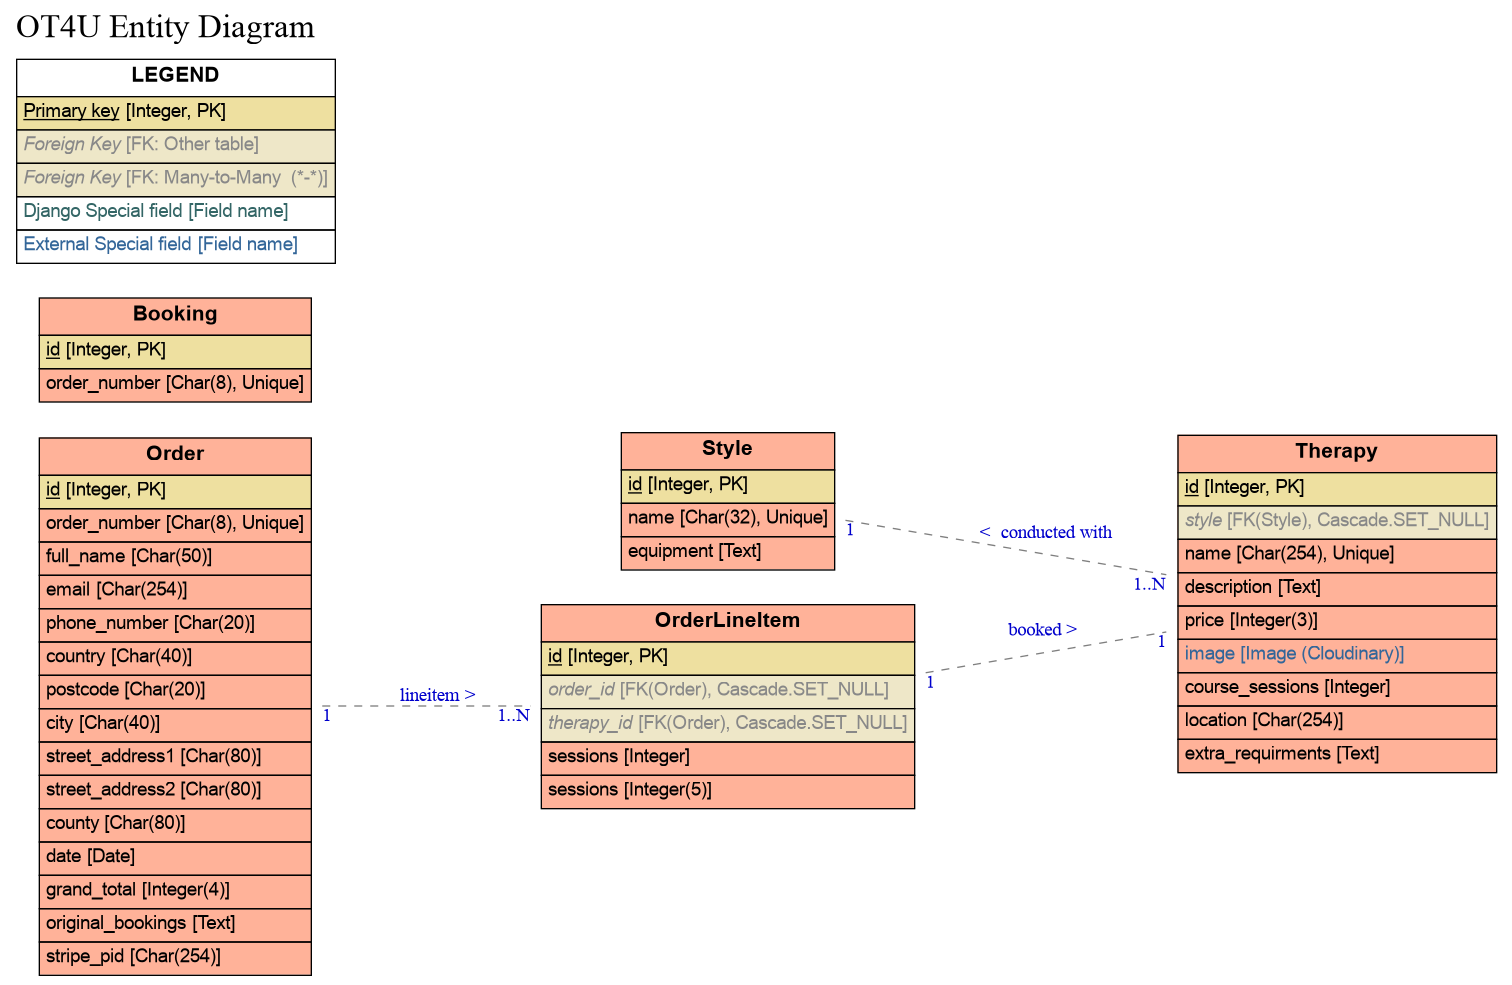
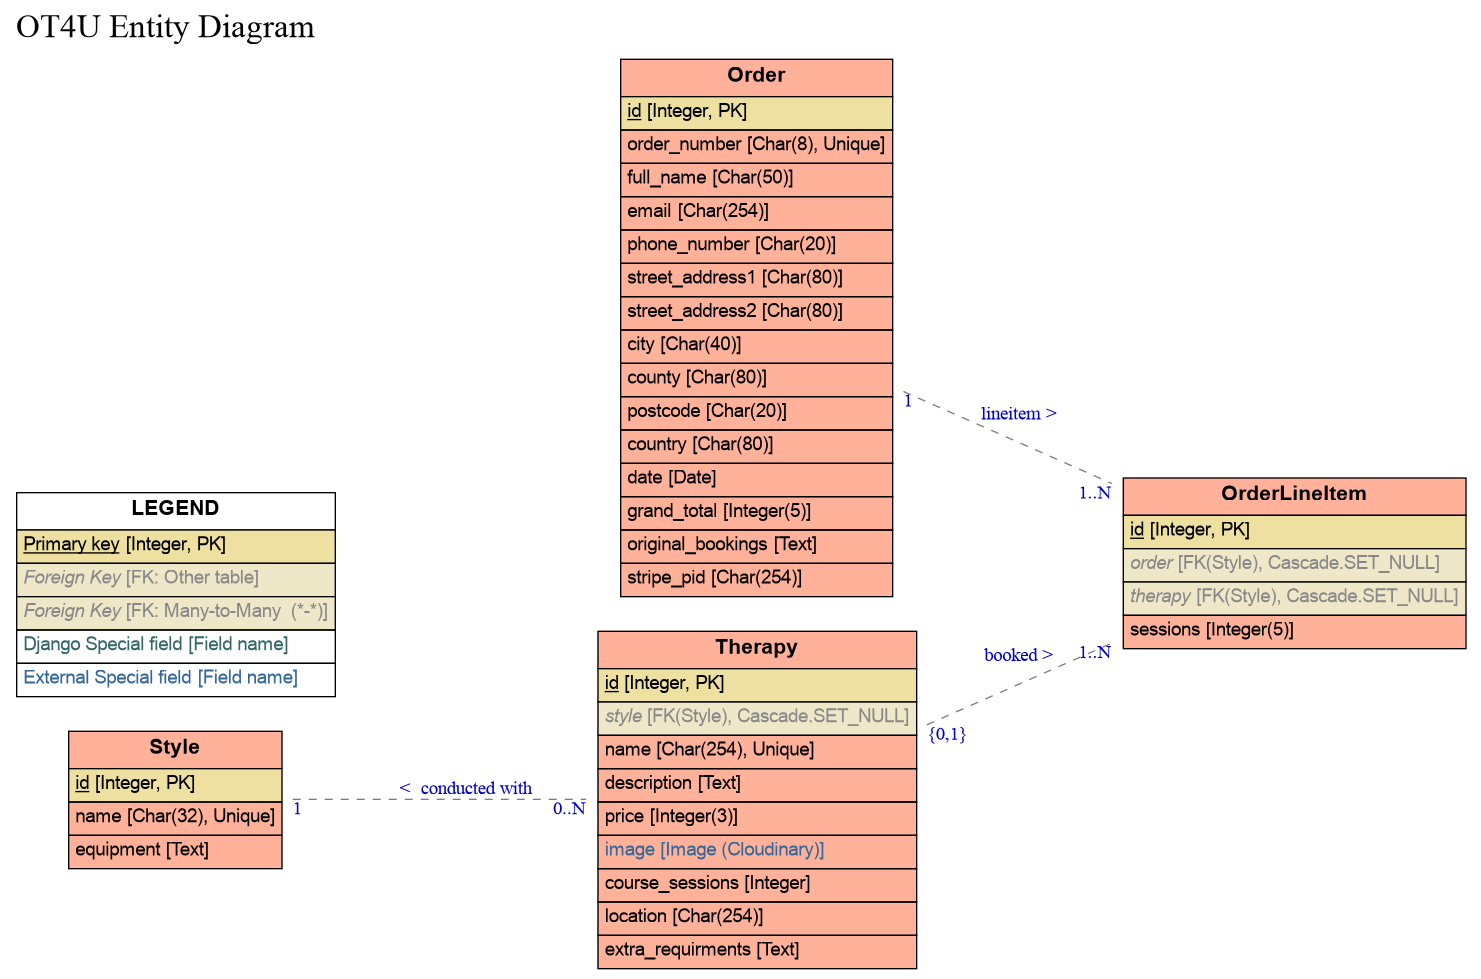
FIX: Remove extraneous model
The Bookings model is not required.
It has been removed from the model and from the database.

diff --git a/purchase/views.py b/purchase/views.py
@@ -206,7 +206,7 @@ class CachePurchaseData(View):
             # and tell it what we want to modify.
             # Add some metadata - add the user who's placing the order,
             # add whether or not they wanted to save their information,
-            # add a JSON dump of their shopping bag (which we'll use a little later)
+            # add a JSON dump of their bookings (which we'll use a little later)
             stripe.PaymentIntent.modify(
                 pid,
                 metadata={

diff --git a/bookings/models.py b/bookings/models.py
@@ -1,10 +1,1 @@
 from django.db import models
-
-
-class Booking(models.Model):
-
-    # "editable=False" attribute on the booking number field.
-    # We're gonna automatically generate this booking number.
-    # And we'll want it to be unique and permanent
-    # so users can find their previous bookings.
-    booking_number = models.CharField(max_length=8, null=False, editable=False)

diff --git a/bookings/migrations/0003_delete_booking.py b/bookings/migrations/0003_delete_booking.py
@@ -1,0 +1,16 @@
+# Generated by Django 4.0.6 on 2022-09-21 11:23
+
+from django.db import migrations
+
+
+class Migration(migrations.Migration):
+
+    dependencies = [
+        ("bookings", "0002_alter_booking_booking_number"),
+    ]
+
+    operations = [
+        migrations.DeleteModel(
+            name="Booking",
+        ),
+    ]
